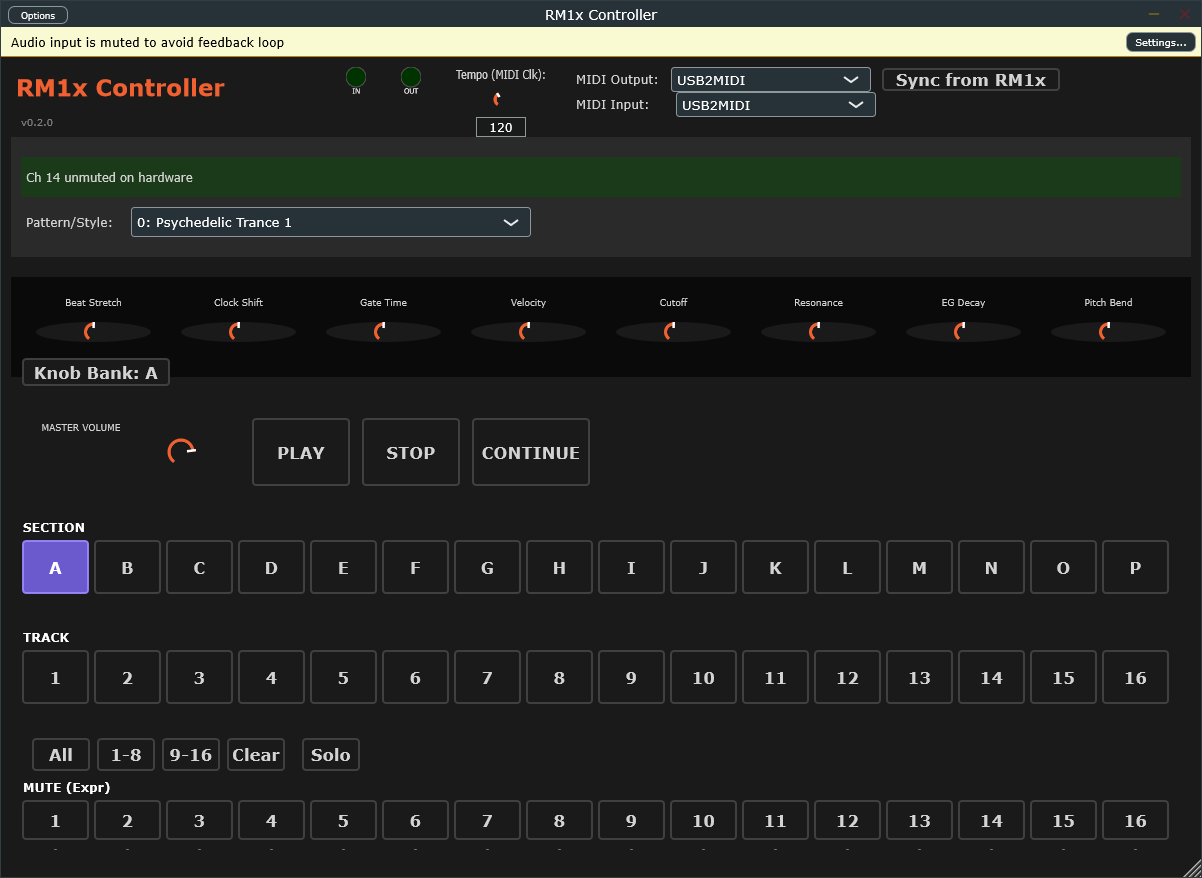
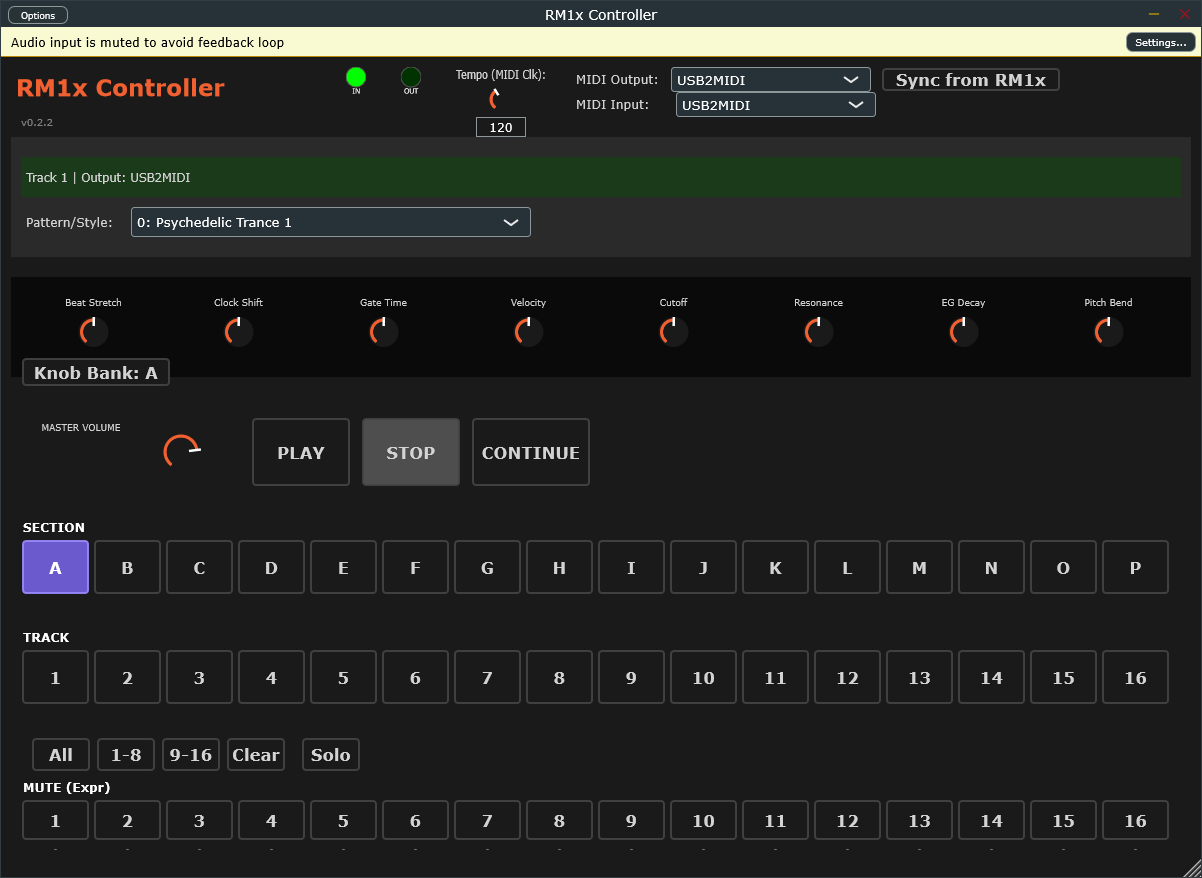
Release 0.2.2: circular knob backgrounds (Cutoff etc.)
Knob backgrounds draw as true circles (not ovals) and are slightly larger.
Synced from Origin tip c619900de4321c313d15a4cbec558128d327b0e4.

diff --git a/Source/PanelComponents.cpp b/Source/PanelComponents.cpp
@@ -14,21 +14,28 @@ void RM1xLookAndFeel::drawRotarySlider(juce::Graphics& g, int x, int y, int widt
                                        float sliderPos, float rotaryStartAngle, float rotaryEndAngle,
                                        juce::Slider& slider)
 {
-    auto bounds = juce::Rectangle<int>(x, y, width, height).toFloat().reduced(10);
-    auto radius = juce::jmin(bounds.getWidth(), bounds.getHeight()) / 2.0f;
+    auto bounds = juce::Rectangle<int>(x, y, width, height).toFloat();
+    
+    // Calculate the largest circle that fits in the bounds (with reduced inset)
+    auto inset = 5.0f;
+    auto diameter = juce::jmin(bounds.getWidth(), bounds.getHeight()) - (inset * 2.0f);
+    auto radius = diameter / 2.0f;
     auto centreX = bounds.getCentreX();
     auto centreY = bounds.getCentreY();
-    auto angle = rotaryStartAngle + sliderPos * (rotaryEndAngle - rotaryStartAngle);
     
+    // Draw circular background (not ellipse) centered in bounds
     g.setColour(findColour(juce::Slider::rotarySliderOutlineColourId));
-    g.fillEllipse(bounds);
+    g.fillEllipse(centreX - radius, centreY - radius, diameter, diameter);
     
+    // Draw value arc
+    auto angle = rotaryStartAngle + sliderPos * (rotaryEndAngle - rotaryStartAngle);
     g.setColour(findColour(juce::Slider::rotarySliderFillColourId));
     juce::Path arc;
     arc.addCentredArc(centreX, centreY, radius * 0.8f, radius * 0.8f, 0.0f, 
                      rotaryStartAngle, angle, true);
     g.strokePath(arc, juce::PathStrokeType(3.0f));
     
+    // Draw pointer
     juce::Path pointer;
     auto pointerLength = radius * 0.6f;
     auto pointerThickness = 2.5f;

diff --git a/README.md b/README.md
@@ -10,11 +10,11 @@ A JUCE 8 VST3 + Standalone application that provides a software remote controlle
 
 ## Version
 
-**0.2.1** — Standalone releases ASIO/WASAPI + exclusive MIDI on quit
+**0.2.2** — Knob backgrounds are true circles (Cutoff etc.), slightly larger
 
 ## Downloads
 
-Prebuilt **Windows x64** Standalone and VST3: **[Releases](https://github.com/harisk73/rm1x-controller/releases)** · **[v0.2.1](https://github.com/harisk73/rm1x-controller/releases/tag/v0.2.1)**
+Prebuilt **Windows x64** Standalone and VST3: **[Releases](https://github.com/harisk73/rm1x-controller/releases)** · **[v0.2.2](https://github.com/harisk73/rm1x-controller/releases/tag/v0.2.2)**
 
 - Standalone: unzip and run `RM1x Controller.exe`
 - VST3: unzip `RM1x Controller.vst3` into a VST3 folder (e.g. `%USERPROFILE%\Documents\VST3`) and rescan in your DAW
@@ -36,6 +36,10 @@ Or build from source below.
 - **MIDI Clock tempo** — send MIDI Clock (`F8`) to drive the RM1x; hardware must be set to **Sync = MIDI**
 - **Exclusive MIDI** — host and plugin avoid double-opening the same port
 - **Panel-mirror UI** — dark industrial aesthetic with purple-blue active states inspired by the hardware
+
+### What’s new in 0.2.2
+
+- Knob backgrounds (Cutoff, Resonance, etc.): draw as proper circles instead of stretched ovals, and slightly larger
 
 ### What’s new in 0.2.1
 

diff --git a/CHANGELOG.md b/CHANGELOG.md
@@ -5,6 +5,11 @@ All notable changes to the RM1x Controller project will be documented in this fi
 The format is based on [Keep a Changelog](https://keepachangelog.com/en/1.0.0/),
 and this project adheres to [Semantic Versioning](https://semver.org/spec/v2.0.0.html).
 
+## [0.2.2] - 2026-10-27
+
+### Fixed
+- Knob backgrounds (Cutoff and other rotary controls): draw true circles instead of ovals; slightly larger (reduced inset)
+
 ## [0.2.1] - 2026-10-27
 
 ### Fixed
@@ -168,6 +173,8 @@ The Yamaha RM1x MIDI specification does not document a mute SysEx command or acc
 ---
 
 [0.1.0]: https://github.com/harisk73/rm1x-controller/releases/tag/v0.1.0
+
+[0.2.2]: https://github.com/harisk73/rm1x-controller/releases/tag/v0.2.2
 
 [0.2.1]: https://github.com/harisk73/rm1x-controller/releases/tag/v0.2.1
 
